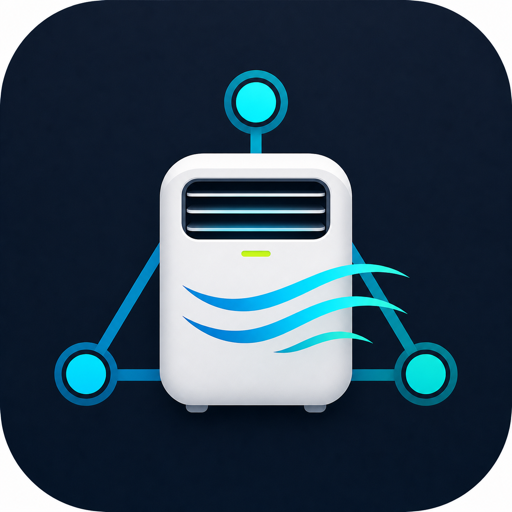
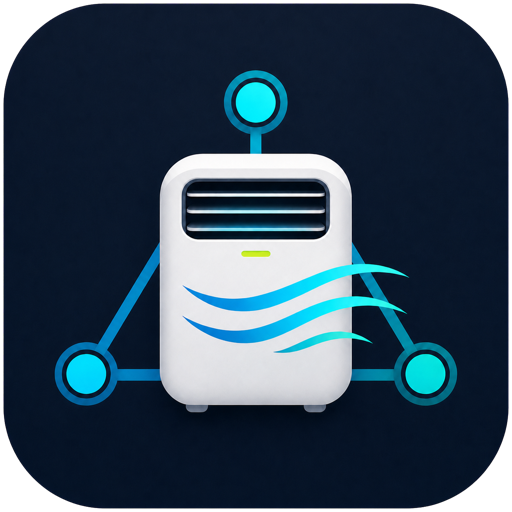
release: Emerio Local 0.3.1

diff --git a/README.md b/README.md
@@ -1,4 +1,8 @@
-# Emerio Local
+<p align="center">
+  <img src="custom_components/emerio_local/brand/icon.png" alt="Emerio Local" width="180">
+</p>
+
+<h1 align="center">Emerio Local</h1>
 
 Experimentelle Home-Assistant-Integration für den Emerio PAC-127111.1 und
 Klarstein-kompatible Tuya-3.4-Klimageräte mit Product-ID `bvgvah9atllpyt5s`.
@@ -20,6 +24,33 @@ Nur bis eine echte Rückmeldung eintrifft, zeigt Home Assistant den gesendeten
 Wert als **optimistischen/angenommenen Zustand**. Das verhindert, dass die UI
 nach einem erfolgreichen Einschalten weiter „Aus“ anzeigt und deshalb keinen
 Ausschaltbefehl mehr anbietet.
+
+## Features
+
+- **Smart-Life-Onboarding mit QR-Code:** Device-ID und Local Key werden bei der
+  Neueinrichtung automatisch über die offizielle Tuya-Device-Sharing-API
+  abgerufen.
+- **Lokaler Betrieb nach der Einrichtung:** Steuerung und Statuskommunikation
+  laufen direkt zwischen Home Assistant und dem Klimagerät; die Tuya-Cloud wird
+  dafür nicht benötigt.
+- **Keine gespeicherten Cloud-Tokens:** Benutzercode, QR-, Access- und
+  Refresh-Token existieren nur während des Einrichtungsdialogs.
+- **Verlässliche Tuya-3.4-Verbindung:** Eine persistente Verbindung verarbeitet
+  Befehlsantworten und spontane Gerätemeldungen über denselben Socket.
+- **Vollständige Klimasteuerung:** Ein/Aus, Kühlen, Entfeuchten, Nur Lüften,
+  16–31 °C Zieltemperatur sowie hohe und niedrige Lüfterstufe.
+- **Zusatzfunktionen:** Schlafmodus, Timer von 0–24 Stunden und separater
+  Power-Schalter als Fallback.
+- **Firmwaregerechte Moduswechsel:** Nach dem Einschalten wartet die Integration
+  auf die Power-Bestätigung und die notwendige kurze Geräte-Settle-Zeit.
+- **Echte Zustandsrückmeldung:** Bestätigte Gerätewerte ersetzen automatisch den
+  nur vorübergehend optimistischen UI-Zustand.
+- **Robuster Reconnect:** Bei einem Verbindungsabbruch werden ausstehende
+  Datenpunkte vorgemerkt und nach dem Wiederaufbau übertragen.
+- **Diagnose in Home Assistant:** Statusquelle, Fehlercode, letzte Gerätewerte
+  und ein manueller Button zum Aktualisieren des Status.
+- **HACS-Updates mit Versionsnummern:** Veröffentlichte Releases werden als
+  semantische Versionen statt als Commit-Hashes angeboten.
 
 ## Installation über HACS
 